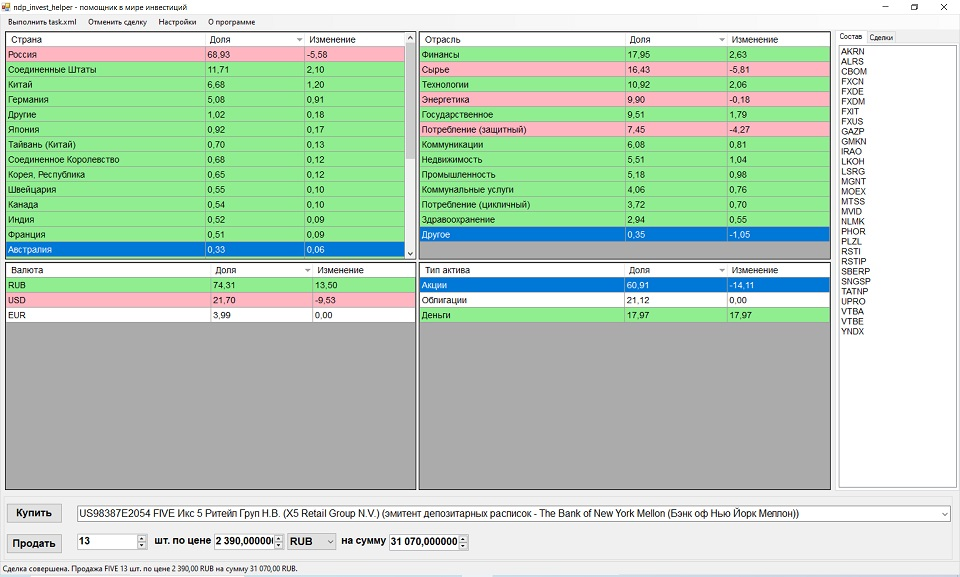
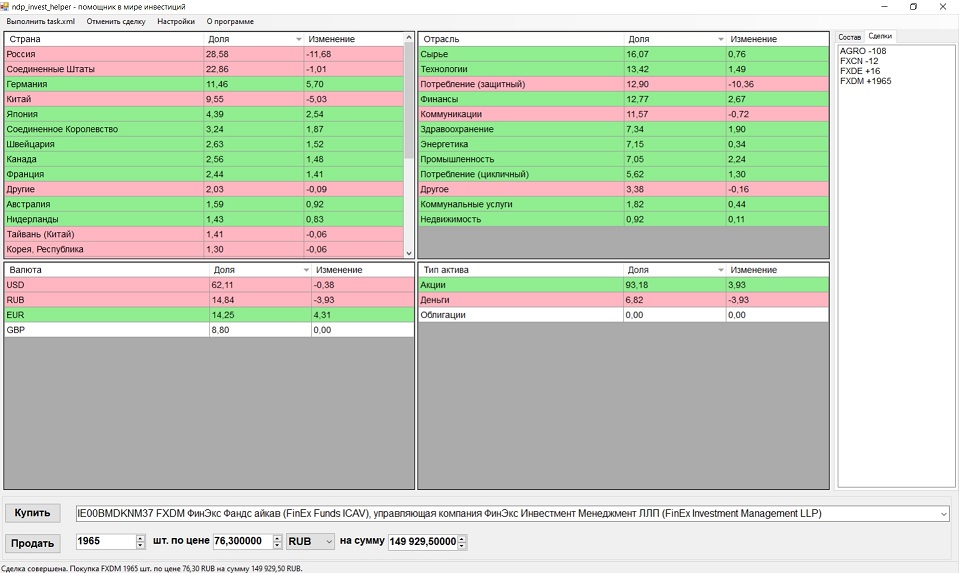
- Баг с учетом валюты.

diff --git a/ndp_invest_helper/Portfolio.cs b/ndp_invest_helper/Portfolio.cs
@@ -571,6 +571,11 @@ namespace ndp_invest_helper
 
                 this.securitiesTotal += portfolioValue.Total;
             }
+
+            foreach (var cashRecord in report.Cash)
+            {
+                AddCash(cashRecord.Key, cashRecord.Value);
+            }
         }
 
         private void CheckNotUsedSecurities(PortfolioAnalyticsResult result)

diff --git a/TODO.md b/TODO.md
@@ -8,8 +8,6 @@
   * Проверить вложенную группировку. Вероятно, доли при этом учитываются неправильно. Надо перменожать коэффициент коррекции.
 
 * GUI. Настройка "Показывать изменение" - "С начала", "С предыдущего".
-* GUI. Добавить справа TabControl, одна вклада - состав группы, вторая - история сделок. По клику показывать результат группировки после этой сделки, навигация.
-* GUI. Баг с валютой в итого, дублирует комбобокс, а должна быть валютой бумаги.
 * Завести файл data\info\currencies.xml для валюты. С названиями, странами и курсами. Перенести курсы из Setting.xml.
 * GUI. Добавить деньги в ListBox со списком бумаг или отдельный ListBox.
 * GUI. Добавить меню с выбором уровней группировки. Меню заполняется динамически на основе количества уровней. Группировка в одном и том же DataGridView.
@@ -32,10 +30,11 @@
 
 ## Сделано
 
+* GUI. Добавить справа TabControl, одна вклада - состав группы, вторая - история сделок. По клику показывать результат группировки после этой сделки, навигация.
+* GUI. Баг с валютой в итого, дублирует комбобокс, а должна быть валютой бумаги.
 * GUI. Переделать Итого на NumericUpDown, чтобы можно было вводить сумму, а количество считалось автоматом исходя из цены. Округление в меньшую сторону с поправкой введенного значения. Increment сделать равным цене.
 * GUI. При выборе валюты в комбобоксе пересчитывать цену и итого в ней.
 * Баг с TBIO. В отчете в bond_price1 указана цена в долларах. Надо анализировать поле currency_ISO и переводить цену в рубли.
-
 * Перевести наличность из Settings.xml в data/reports/cash.xml
 * GUI. Отмена сделки.
 * GUI. Настройка в settings.xml. Показывать изменения по сравнению с результатом предыдущей операции или изначальным состоянием портфеля. Важно, если несколько сделок, и нужно посмотреть их накопленный эффект на портфель.

diff --git a/README.md b/README.md
@@ -1,7 +1,7 @@
 # ndp_invest_helper
 Бесплатный анализатор диверсификации портфеля с открытым кодом. Помощник в мире инвестиций на фондовом рынке для консервативного инвестора. [Официальный сайт](https://github.com/dnezamaev/ndp_invest_helper).
 
-![ndp_invest_helper](./screenshots/ndp_invest_helper_half.jpg)
+![Скриншот](./screenshots/ndp_invest_helper_full.jpg)
 
 ## Что делает?
 С помощью программы можно оценить насколько качественно сбалансированы Ваши инвестиции по разным критериям. Программа показывает диверсификацию портфеля по типу активов, секторам экономики, валютам, странам. Также можно эмулировать сделки купли/продажи для ребалансировки портфеля.
